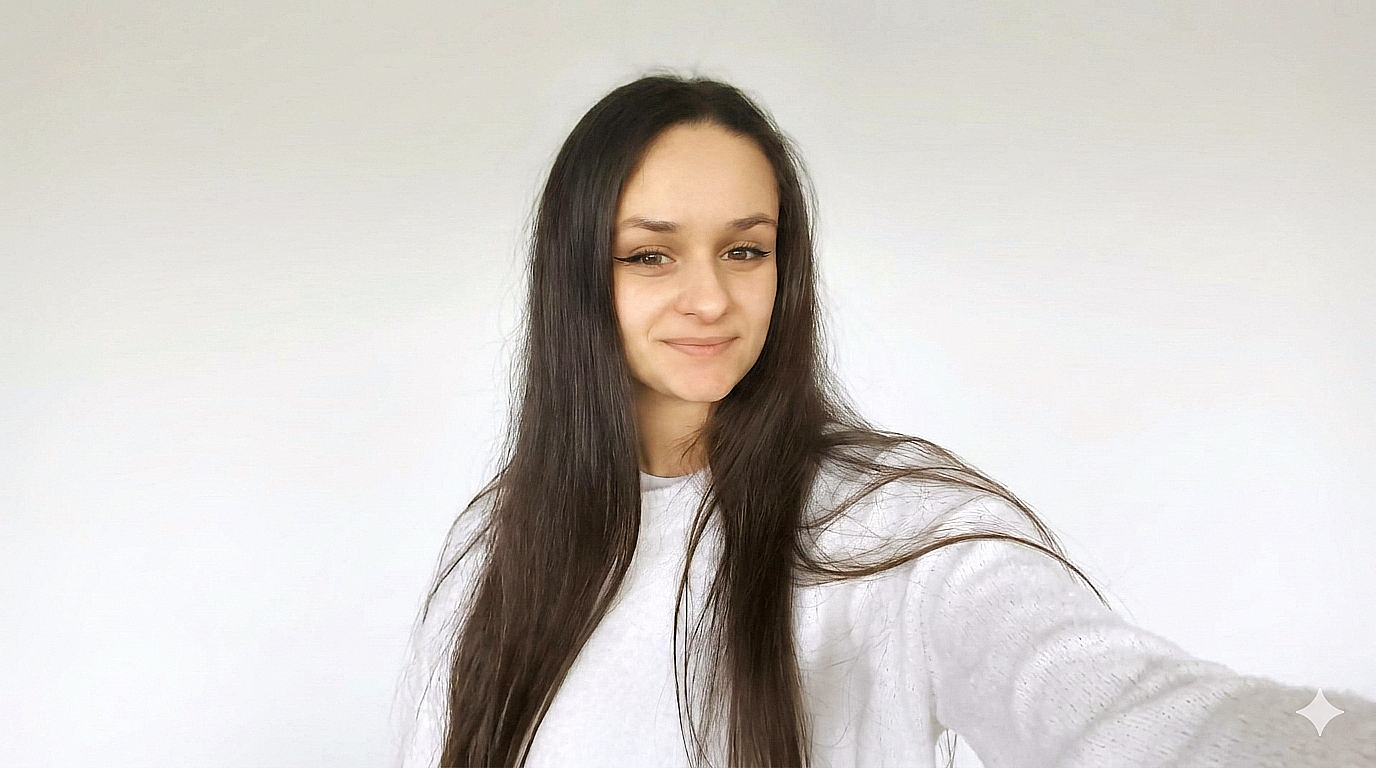
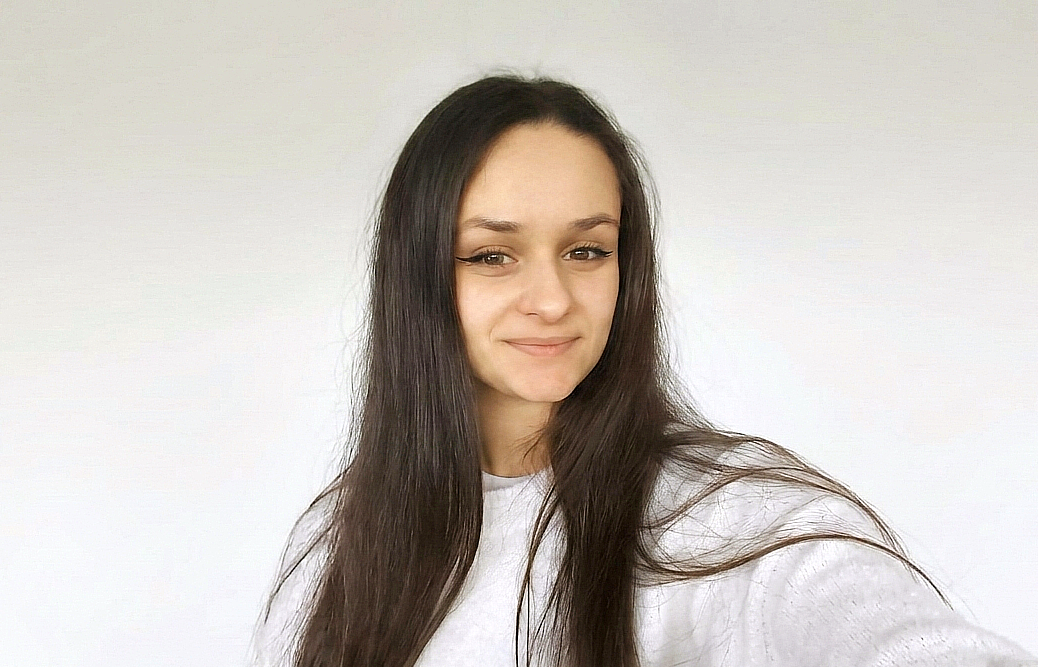
Multi menus

diff --git a/Portfolio_Farah_Chaatouf/src/Composants/Header.tsx b/Portfolio_Farah_Chaatouf/src/Composants/Header.tsx
@@ -1,18 +1,39 @@
 import photo from "../assets/photo.png";
+import fleur from "../assets/Fleure.png";
 
 export default function Header() {
   return (
     <>
-      <div className="w-full h-40 mb-5 flex border-b-2 border-fuchsia-500">
-        <div className="w-1/5 h-full flex justify-center items-center">
-          <div className="avatar h-2/3">
-            <div className="ring-fuchsia-700 ring-offset-base-100 rounded-full ring-2 ring-offset-2">
-              <img alt="photo_profil" src={photo} />
+      <div className="w-4/5 h-screen flex justify-center items-center">
+        <div className="hover-3d h-4/5 w-4/5  ">
+          <div className="relative flex rounded-3xl shadow-lg">
+            <div className="w-2/5 h-full flex justify-center items-center">
+              <div className="avatar w-2/3">
+                <div className="ring-2 ring-fuchsia-500 ring-offset-2 rounded-full">
+                  <img alt="photo_profil" src={photo} />
+                </div>
+              </div>
             </div>
+            <div className="w-3/5 h-full flex flex-col text-6xl justify-center items-center text-center font-semibold font-serif bg-gradient-to-r from-fuchsia-400 to-fuchsia-900 bg-clip-text text-transparent decoration-clone">
+              Portfolio Farah CHAATOUF
+            </div>
+            <img
+              alt="photo_profil"
+              src={fleur}
+              className="absolute h-1/5 bottom-0 right-0 -rotate-30"
+            />
           </div>
-        </div>
-        <div className="w-4/5 h-full flex flex-col text-3xl justify-center items-center text-fuchsia-400 font-semibold font-serif">
-        Portfolio Farah CHAATOUF
+
+          <div></div>
+          <div></div>
+          <div></div>
+          <div></div>
+          <div></div>
+          <div></div>
+          <div></div>
+          <div></div>
+
+          
         </div>
       </div>
     </>

diff --git a/Portfolio_Farah_Chaatouf/src/Composants/Hero2.tsx b/Portfolio_Farah_Chaatouf/src/Composants/Hero2.tsx
@@ -1,0 +1,30 @@
+import photo from "../assets/photo.png";
+
+export default function Hero() {
+  return (
+    <>
+      <div className="w-4/5 h-screen flex justify-center items-center">
+        <div className="w-4/5 h-4/5 mb-5 shadow-lg shadow-200 rounded-3xl flex border-0 border-fuchsia-500">
+          <div className="w-3/5 h-full flex justify-center items-center ">
+            <div className="avatar w-full h-full flex justify-center items-center">
+              <img
+                alt="photo_profil"
+                src={photo}
+                className="rounded-3xl h-10/12 w-10/12"
+              />
+            </div>
+          </div>
+          <div className="relative flex flex-col w-2/5 h-1/5 right-1/5 top-1/3 animate-pulse">
+            <div className="w-full h-full flex flex-col text-7xl justify-center items-center text-center font-semibold font-serif bg-gradient-to-r from-fuchsia-400 to-fuchsia-900 bg-clip-text text-transparent decoration-clone">
+              Portfolio
+            </div>
+            <div className="w-full h-full flex flex-col text-4xl justify-center items-center text-center font-semibold font-serif bg-gradient-to-r from-fuchsia-400 to-fuchsia-900 bg-clip-text text-transparent decoration-clone">
+              Farah Chaatouf
+            </div>
+          </div>
+        </div>
+      </div>
+
+    </>
+  );
+}

diff --git a/Portfolio_Farah_Chaatouf/src/Composants/Menu1.tsx b/Portfolio_Farah_Chaatouf/src/Composants/Menu1.tsx
@@ -1,0 +1,23 @@
+export default function Menu1() {
+  return (
+    <>
+      <div className="w-4/5 h-screen flex justify-start items-center p-10">
+        <div className="w-4/5 h-4/5 flex flex-col justify-center items-start space-y-4 text-2xl">
+          <button className="flex justify-start font-bold items-center shadow-lg p-5 transition duration-500 ease-in-out h-1/10 w-1/3 border-l-4 border-l-fuchsia-500 transform hover:-translate-y-1 hover:scale-110">
+            Experience
+          </button>
+          <button className="flex justify-start font-bold items-center shadow-lg p-5 transition duration-500 ease-in-out h-1/10 w-1/3 border-l-4 border-l-fuchsia-500 transform hover:-translate-y-1 hover:scale-110">
+            Formation / Diplômes
+          </button>
+          <button className="flex justify-start font-bold items-center shadow-lg p-5 transition duration-500 ease-in-out h-1/10 w-1/3 border-l-4 border-l-fuchsia-500 transform hover:-translate-y-1 hover:scale-110">
+            Projet
+          </button>
+          <button className="flex justify-start font-bold items-center shadow-lg p-5 transition duration-500 ease-in-out h-1/10 w-1/3 border-l-4 border-l-fuchsia-500 transform hover:-translate-y-1 hover:scale-110">
+            Compétences
+          </button>
+          
+        </div>
+      </div>
+    </>
+  );
+}

diff --git a/Portfolio_Farah_Chaatouf/src/Composants/Menu2.tsx b/Portfolio_Farah_Chaatouf/src/Composants/Menu2.tsx
@@ -1,0 +1,23 @@
+export default function Menu1() {
+  return (
+    <>
+      <div className="w-4/5 h-screen flex justify-start items-center p-10">
+        <div className="w-full h-full flex justify-center items-start space-x-4 text-xl">
+          <button className="flex justify-start font-bold items-center shadow-lg p-5 transition duration-500 ease-in-out h-1/10 w-1/5 border-l-4 border-l-fuchsia-500 transform hover:-translate-y-1 hover:scale-110">
+            Experience
+          </button>
+          <button className="flex justify-start font-bold items-center shadow-lg p-5 transition duration-500 ease-in-out h-1/10 w-1/5 border-l-4 border-l-fuchsia-500 transform hover:-translate-y-1 hover:scale-110">
+            Formation / Diplômes
+          </button>
+          <button className="flex justify-start font-bold items-center shadow-lg p-5 transition duration-500 ease-in-out h-1/10 w-1/5 border-l-4 border-l-fuchsia-500 transform hover:-translate-y-1 hover:scale-110">
+            Projet
+          </button>
+          <button className="flex justify-start font-bold items-center shadow-lg p-5 transition duration-500 ease-in-out h-1/10 w-1/5 border-l-4 border-l-fuchsia-500 transform hover:-translate-y-1 hover:scale-110">
+            Compétences
+          </button>
+          
+        </div>
+      </div>
+    </>
+  );
+}

diff --git a/Portfolio_Farah_Chaatouf/src/Composants/Menu3.tsx b/Portfolio_Farah_Chaatouf/src/Composants/Menu3.tsx
@@ -1,0 +1,23 @@
+export default function Menu1() {
+  return (
+    <>
+      <div className="w-4/5 h-screen flex justify-start items-center p-10">
+        <div className="w-full h-full flex justify-center items-start space-x-4 text-xl">
+          <button className=" flex justify-start font-bold items-center shadow-lg p-5 transition duration-500 ease-in-out rounded-full border-l-4 border-l-fuchsia-500 transform hover:-translate-y-1 hover:scale-110">
+            Experience
+          </button>
+
+          <button className="flex justify-start font-bold items-center shadow-lg p-5 transition duration-500 ease-in-out h-1/10 w-1/5 border-l-4 border-l-fuchsia-500 transform hover:-translate-y-1 hover:scale-110">
+            Formation / Diplômes
+          </button>
+          <button className="flex justify-start font-bold items-center shadow-lg p-5 transition duration-500 ease-in-out h-1/10 w-1/5 border-l-4 border-l-fuchsia-500 transform hover:-translate-y-1 hover:scale-110">
+            Projet
+          </button>
+          <button className="flex justify-start font-bold items-center shadow-lg p-5 transition duration-500 ease-in-out h-1/10 w-1/5 border-l-4 border-l-fuchsia-500 transform hover:-translate-y-1 hover:scale-110">
+            Compétences
+          </button>
+        </div>
+      </div>
+    </>
+  );
+}

diff --git a/Portfolio_Farah_Chaatouf/src/Base.tsx b/Portfolio_Farah_Chaatouf/src/Base.tsx
@@ -3,6 +3,11 @@ import Diplomes from "./Composants/Diplomes";
 import Experiences from "./Composants/Experiences";
 import Projets from "./Composants/Projets";
 import Footer from "./Composants/Footer";
+import Hero from "./Composants/Hero";
+import Hero2 from "./Composants/Hero2";
+import Menu1 from "./Composants/Menu1";
+import Menu2 from "./Composants/Menu2";
+import Menu3 from "./Composants/Menu3";
 
 export default function Base() {
   return (
@@ -10,6 +15,12 @@ export default function Base() {
       <div className="w-full h-full bg-base-300">
         <div className="w-full h-full flex flex-col justify-center items-center">
           <Header />
+          <Hero />
+          <Hero2 />
+          <Menu1 />
+          <Menu2 />
+          <Menu3 />
+
           <div>
             <fieldset className="fieldset">
               <legend className="fieldset-legend">Pick a file</legend>
@@ -21,7 +32,7 @@ export default function Base() {
 
           <Experiences />
 
-          <Projets/>
+          <Projets />
 
           <Footer />
         </div>

diff --git a/Portfolio_Farah_Chaatouf/src/Composants/Hero.tsx b/Portfolio_Farah_Chaatouf/src/Composants/Hero.tsx
@@ -1,0 +1,19 @@
+import photo from "../assets/photo.png";
+
+export default function Hero() {
+  return (
+    <>
+      <div className="w-4/5 h-screen flex justify-center items-end">
+        <img
+          alt="photo_profil"
+          src={photo}
+          className="absolute z-0 rounded-4xl bg-opacity-80 shadow-lg "
+        />
+        <div className="z-10 w-3/5 h-1/3 flex flex-col text-6xl justify-center items-end text-center font-semibold font-serif bg-gradient-to-r from-fuchsia-900 via-fuchsia-400 to-fuchsia-900 bg-clip-text text-transparent decoration-clone">
+          <div className="text-center w-full">Portfolio</div>
+          <div className="text-center w-full">Farah CHAATOUF</div>
+        </div>
+      </div>
+    </>
+  );
+}
